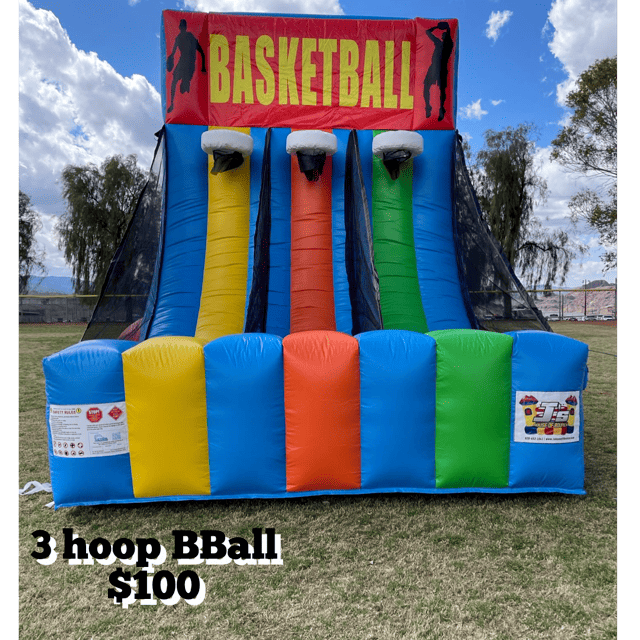
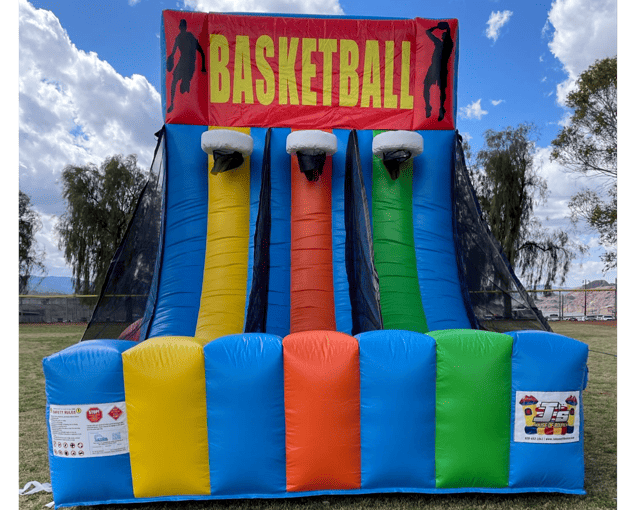
Removes prices from images and siteand updates contact number.

diff --git a/combos.html b/combos.html
@@ -67,10 +67,10 @@
                   <div class="row">
                     <div class="col-4 col-6-medium col-12-small">
                       <section>
-                        <img src="images/sports-arena-combo.jpg" alt="" class="image featured" />
+                        <img src="images/sports-arena-combo.jpg" alt="" class="image featured product-pages" />
                         <h3>Sports Arena Combo</h3>
 
-                        <p><span>Price: </span>$180 per day</p>
+                        <!-- <p><span>Price: </span>$180 per day</p> -->
 
                         <p><span>Dimensions: </span>30L x 14W x 13H</p>
 
@@ -79,10 +79,10 @@
                     </div>
                     <div class="col-4 col-6-medium col-12-small">
                       <section>
-                        <img src="images/grease-lightning-combo.jpg" alt="" class="image featured" />
+                        <img src="images/grease-lightning-combo.jpg" alt="" class="image featured product-pages" />
                         <h3>Grease Lightning Combo</h3>
 
-                        <p><span>Price: </span>$180 per day</p>
+                        <!-- <p><span>Price: </span>$180 per day</p> -->
 
                         <p><span>Dimensions: </span>30L x 15W x 16H</p>
 
@@ -91,10 +91,10 @@
                     </div>
                     <div class="col-4 col-6-medium col-12-small">
                       <section>
-                        <img src="images/circus-combo.png" alt="" class="image featured" />
+                        <img src="images/circus-combo.png" alt="" class="image featured product-pages" />
                         <h3>Circus Combo</h3>
 
-                        <p><span>Price: </span>$180 per day</p>
+                        <!-- <p><span>Price: </span>$180 per day</p> -->
 
                         <p><span>Dimensions: </span>30L x 13W x 16H</p>
 
@@ -103,10 +103,10 @@
                     </div>
                     <div class="col-4 col-6-medium col-12-small">
                       <section>
-                        <img src="images/brick-house.jpeg" alt="" class="image featured" />
+                        <img src="images/brick-house.jpeg" alt="" class="image featured product-pages" />
                         <h3>Brick House</h3>
 
-                        <p><span>Price: </span>$160 per day</p>
+                        <!-- <p><span>Price: </span>$160 per day</p> -->
 
                         <p><span>Dimensions: </span>24L x 13W x 15H</p>
 
@@ -115,10 +115,10 @@
                     </div>
                     <div class="col-4 col-6-medium col-12-small">
                       <section>
-                        <img src="images/art-castle.jpeg" alt="" class="image featured" />
+                        <img src="images/art-castle.jpeg" alt="" class="image featured product-pages" />
                         <h3>Art Castle</h3>
 
-                        <p><span>Price: </span>$160 per day</p>
+                        <!-- <p><span>Price: </span>$160 per day</p> -->
 
                         <p><span>Dimensions: </span>16L x 16W x 14H</p>
 
@@ -151,7 +151,7 @@
               <ul class="contact">
                 <li>
                   <h3>call or text</h3>
-                  <p><a href="tel:+19287065215">(928)-706-5215</a></p>
+                  <p><a href="tel:+19287065215">928-846-1444</a></p>
                 </li>
               </ul>
             </section>

diff --git a/castles.html b/castles.html
@@ -67,30 +67,30 @@
                   <div class="row">
                     <div class="col-4 col-6-medium col-12-small">
                       <section>
-                        <img src="images/rainbow-house.png" alt="" class="image featured" />
+                        <img src="images/rainbow-house.png" alt="" class="image featured product-pages" />
                         <h3>Rainbow House</h3>
 
-                        <p><span>Price: </span>$120 per day</p>
+                        <!-- <p><span>Price: </span>$120 per day</p> -->
 
                         <p><span>Dimensions: </span>13L x 13W x 13H</p>
                       </section>
                     </div>
                     <div class="col-4 col-6-medium col-12-small">
                       <section>
-                        <img src="images/mini-castle.png" alt="" class="image featured" />
+                        <img src="images/mini-castle.png" alt="" class="image featured product-pages" />
                         <h3>Mini-castle</h3>
 
-                        <p><span>Price: </span>$120 per day</p>
+                        <!-- <p><span>Price: </span>$120 per day</p> -->
 
                         <p><span>Dimensions: </span>13L x 13W x 16H</p>
                       </section>
                     </div>
                     <div class="col-4 col-6-medium col-12-small">
                       <section>
-                        <img src="images/circus-top.jpeg" alt="" class="image featured" />
+                        <img src="images/circus-top.jpeg" alt="" class="image featured product-pages" />
                         <h3>Circus Top</h3>
 
-                        <p><span>Price: </span>$120 per day</p>
+                        <!-- <p><span>Price: </span>$120 per day</p> -->
 
                         <p><span>Dimensions: </span>13L x 13W x 16H</p>
                       </section>
@@ -121,7 +121,7 @@
               <ul class="contact">
                 <li>
                   <h3>call or text</h3>
-                  <p><a href="tel:+19287065215">(928)-706-5215</a></p>
+                  <p><a href="tel:+19287065215">928-846-1444</a></p>
                 </li>
               </ul>
             </section>

diff --git a/interactives.html b/interactives.html
@@ -67,10 +67,10 @@
                 <div class="row">
                   <div class="col-4 col-6-medium col-12-small">
                     <section>
-                      <img src="images/basketball-price.png" alt="" class="image featured" />
+                      <img src="images/basketball-price.png" alt="" class="image featured product-pages" />
                       <h3>3 Hoop Basketball</h3>
 
-                      <p><span>Price: </span>$100 per day</p>
+                      <!-- <p><span>Price: </span>$100 per day</p> -->
 
                       <p><span>Dimensions: </span>12L x 12W x 16H</p>
                     </section>
@@ -78,10 +78,10 @@
 
                   <div class="col-4 col-6-medium col-12-small">
                     <section>
-                      <img src="images/darts-price.png" alt="" class="image featured" />
+                      <img src="images/darts-price.png" alt="" class="image featured product-pages" />
                       <h3>Darts</h3>
 
-                      <p><span>Price: </span>$100 per day</p>
+                      <!-- <p><span>Price: </span>$100 per day</p> -->
 
                       <p><span>Dimensions: </span>6L x 6W x 8H</p>
                     </section>
@@ -89,10 +89,10 @@
 
                   <div class="col-4 col-6-medium col-12-small">
                     <section>
-                      <img src="images/axe-throwing-price.png" alt="" class="image featured" />
+                      <img src="images/axe-throwing-price.png" alt="" class="image featured product-pages" />
                       <h3>Axe Throwing</h3>
 
-                      <p><span>Price: </span>$100 per day</p>
+                      <!-- <p><span>Price: </span>$100 per day</p> -->
 
                       <p><span>Dimensions: </span>10L x 16W x 9H</p>
                     </section>
@@ -123,7 +123,7 @@
               <ul class="contact">
                 <li>
                   <h3>call or text</h3>
-                  <p><a href="tel:+19287065215">(928)-706-5215</a></p>
+                  <p><a href="tel:+19287065215">928-846-1444</a></p>
                 </li>
               </ul>
             </section>

diff --git a/index.html b/index.html
@@ -116,7 +116,7 @@
                         <header>
                           <h3>Castle Inflatables</h3>
                         </header>
-                        <p>$120 per day</p>
+                        <!-- <p>$120 per day</p> -->
                         <footer>
                           <ul class="actions">
                             <li><a href="castles.html" class="button alt">Find out more</a></li>
@@ -130,7 +130,7 @@
                         <header>
                           <h3>Combo Inflatables</h3>
                         </header>
-                        <p>Starting at $160 per day</p>
+                        <!-- <p>Starting at $160 per day</p> -->
                         <footer>
                           <ul class="actions">
                             <li><a href="combos.html" class="button alt">Find out more</a></li>
@@ -144,7 +144,7 @@
                         <header>
                           <h3>Slide Inflatables</h3>
                         </header>
-                        <p>$250 per day</p>
+                        <!-- <p>$250 per day</p> -->
                         <footer>
                           <ul class="actions">
                             <li><a href="slides.html" class="button alt">Find out more</a></li>
@@ -158,7 +158,7 @@
                         <header>
                           <h3>Interactive Inflatables</h3>
                         </header>
-                        <p>$100 per day</p>
+                        <!-- <p>$100 per day</p> -->
                         <footer>
                           <ul class="actions">
                             <li><a href="interactives.html" class="button alt">Find out more</a></li>
@@ -192,7 +192,7 @@
                   <ul class="contact">
                     <li>
                       <h3>call or text</h3>
-                      <p><a href="tel:+19287065215">(928)-706-5215</a></p>
+                      <p><a href="tel:+19287065215">928-846-1444</a></p>
                     </li>
                   </ul>
                 </section>

diff --git a/slides.html b/slides.html
@@ -67,10 +67,10 @@
                   <div class="row">
                     <div class="col-4 col-6-medium col-12-small">
                       <section>
-                        <img src="images/big-silver.jpeg" alt="" class="image featured" />
+                        <img src="images/big-silver.jpeg" alt="" class="image featured product-pages" />
                         <h3>Big Silver</h3>
 
-                        <p><span>Price: </span>$250 per day</p>
+                        <!-- <p><span>Price: </span>$250 per day</p> -->
 
                         <p><span>Dimensions: </span>30L x 13W x 20H</p>
                       </section>
@@ -101,7 +101,7 @@
               <ul class="contact">
                 <li>
                   <h3>call or text</h3>
-                  <p><a href="tel:+19287065215">(928)-706-5215</a></p>
+                  <p><a href="tel:+19287065215">928-846-1444</a></p>
                 </li>
               </ul>
             </section>

diff --git a/assets/css/main.css b/assets/css/main.css
@@ -1028,6 +1028,10 @@ button,
     display: block;
     width: 100%;
     margin: 0 0 1em 0; }
+  .image.featured.product-pages {
+    height: 270px;
+    object-fit: cover;
+  }
   .image.left {
     float: left;
     margin: 0 2em 2em 0; }
@@ -1863,6 +1867,9 @@ ul.social {
   /* Main */
   #main {
     padding: 20px 0; }
+
+  .image.featured.product-pages {
+    height: 100% }
 
   /* Footer */
   #footer {

diff --git a/inflatables.html b/inflatables.html
@@ -148,7 +148,7 @@
               <ul class="contact">
                 <li>
                   <h3>call or text</h3>
-                  <p><a href="tel:+19287065215">(928)-706-5215</a></p>
+                  <p><a href="tel:+19287065215">928-846-1444</a></p>
                 </li>
               </ul>
             </section>

diff --git a/contact-us.html b/contact-us.html
@@ -77,7 +77,7 @@
               <ul class="contact">
                 <li>
                   <h3>call or text</h3>
-                  <p><a href="tel:+19287065215">(928)-706-5215</a></p>
+                  <p><a href="tel:+19287065215">928-846-1444</a></p>
                 </li>
               </ul>
             </section>

diff --git a/about-us.html b/about-us.html
@@ -125,7 +125,7 @@
 
                   <li>
                     <h3>call or text</h3>
-                    <p><a href="tel:+19287065215">(928)-706-5215</a></p>
+                    <p><a href="tel:+19287065215">928-846-1444</a></p>
                   </li>
                 </ul>
               </section>
